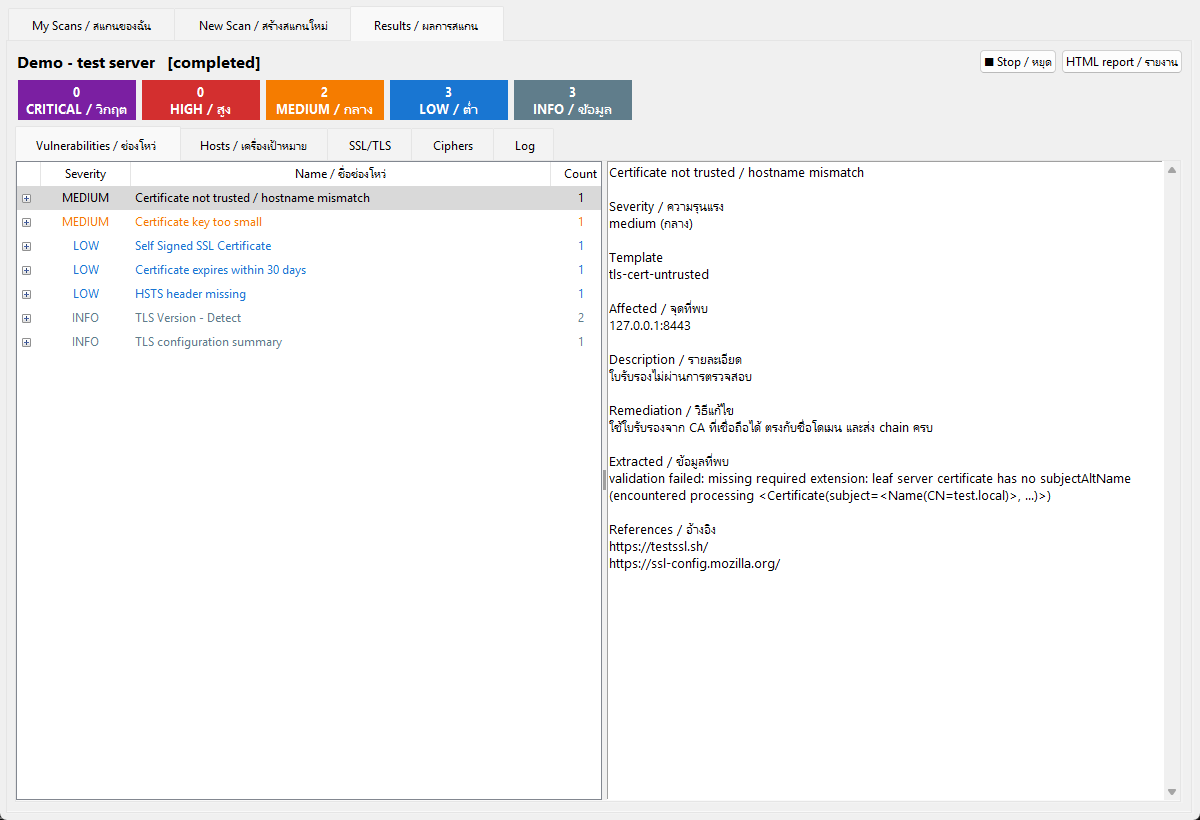
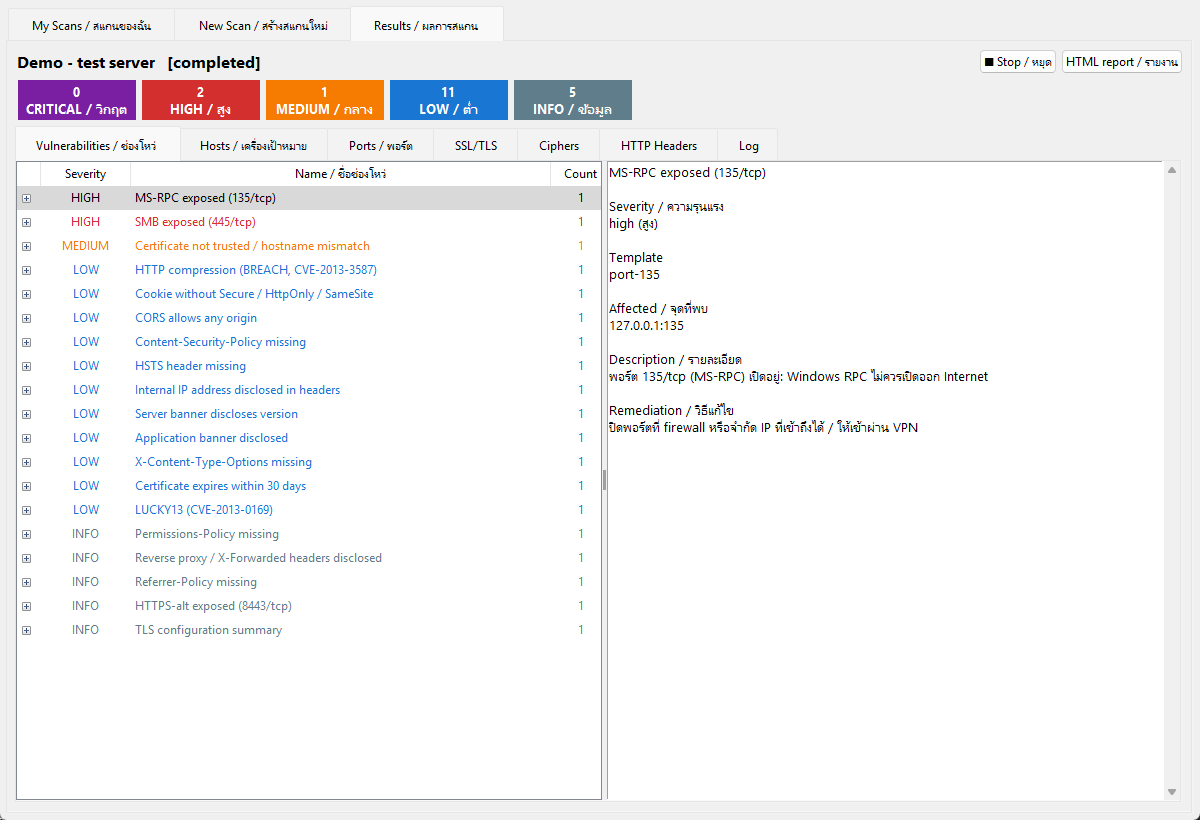
va-scanner: refresh README screenshots, add ports and HTTP headers (local test server only)

diff --git a/va-scanner/README.md b/va-scanner/README.md
@@ -116,6 +116,8 @@
 
 > สแกนแบบ TCP connect รอบเดียว 100 thread timeout 2 วินาที ไม่สแกน UDP ถ้าเป้าหมายมี IPS ที่ตัด connection เวลาสแกนถี่ บางพอร์ตอาจหลุด ให้สแกนซ้ำเพื่อยืนยัน
 
+![Ports](docs/ports.png)
+
 ## ตรวจ SSL/TLS และเกรด
 
 ติ๊กโมดูล **SSL/TLS** (การ์ดที่มีชุด ssl จะติ๊กให้อัตโนมัติ) ตรวจได้เฉพาะเป้าหมาย `https://` หรือ `host:port` และใช้เวลาประมาณ 30–60 วินาทีต่อ host
@@ -172,6 +174,8 @@
 | Other | CORS `Access-Control-Allow-Origin: *`, BREACH (HTTP compression) |
 
 การทดสอบ X-Forwarded-Host injection จะส่ง header `X-Forwarded-Host: va-scanner-probe.invalid` ไปด้วย ถ้าค่านี้สะท้อนกลับมาใน header หรือหน้าเว็บ แปลว่าเสี่ยง cache poisoning / password-reset poisoning ไม่มีการส่ง payload อื่น
+
+![HTTP Headers](docs/headers.png)
 
 ## รายงาน HTML
 
